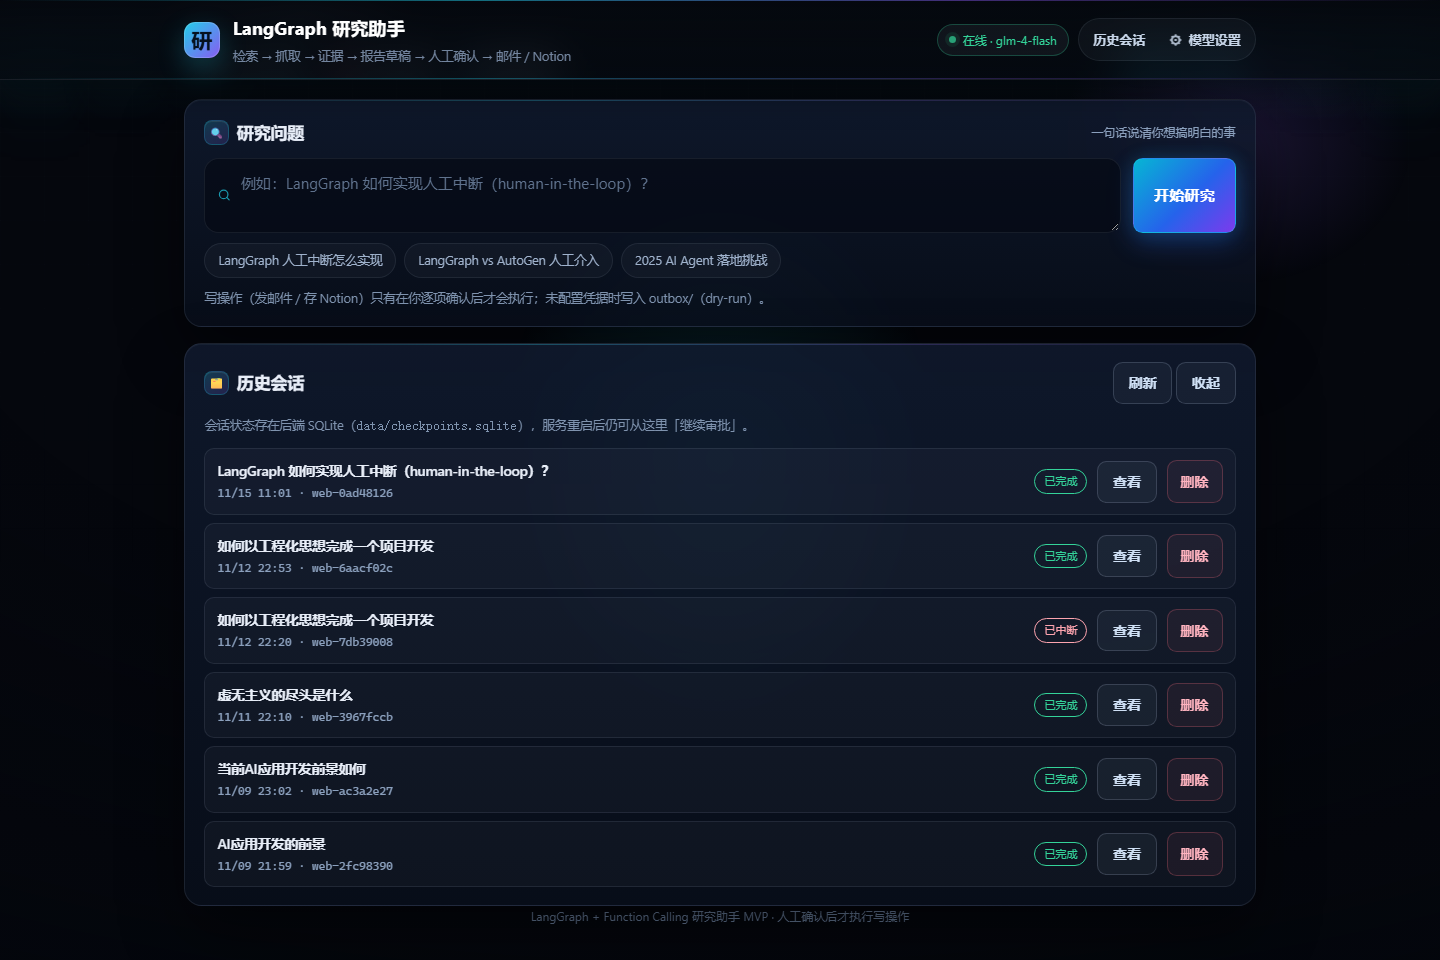
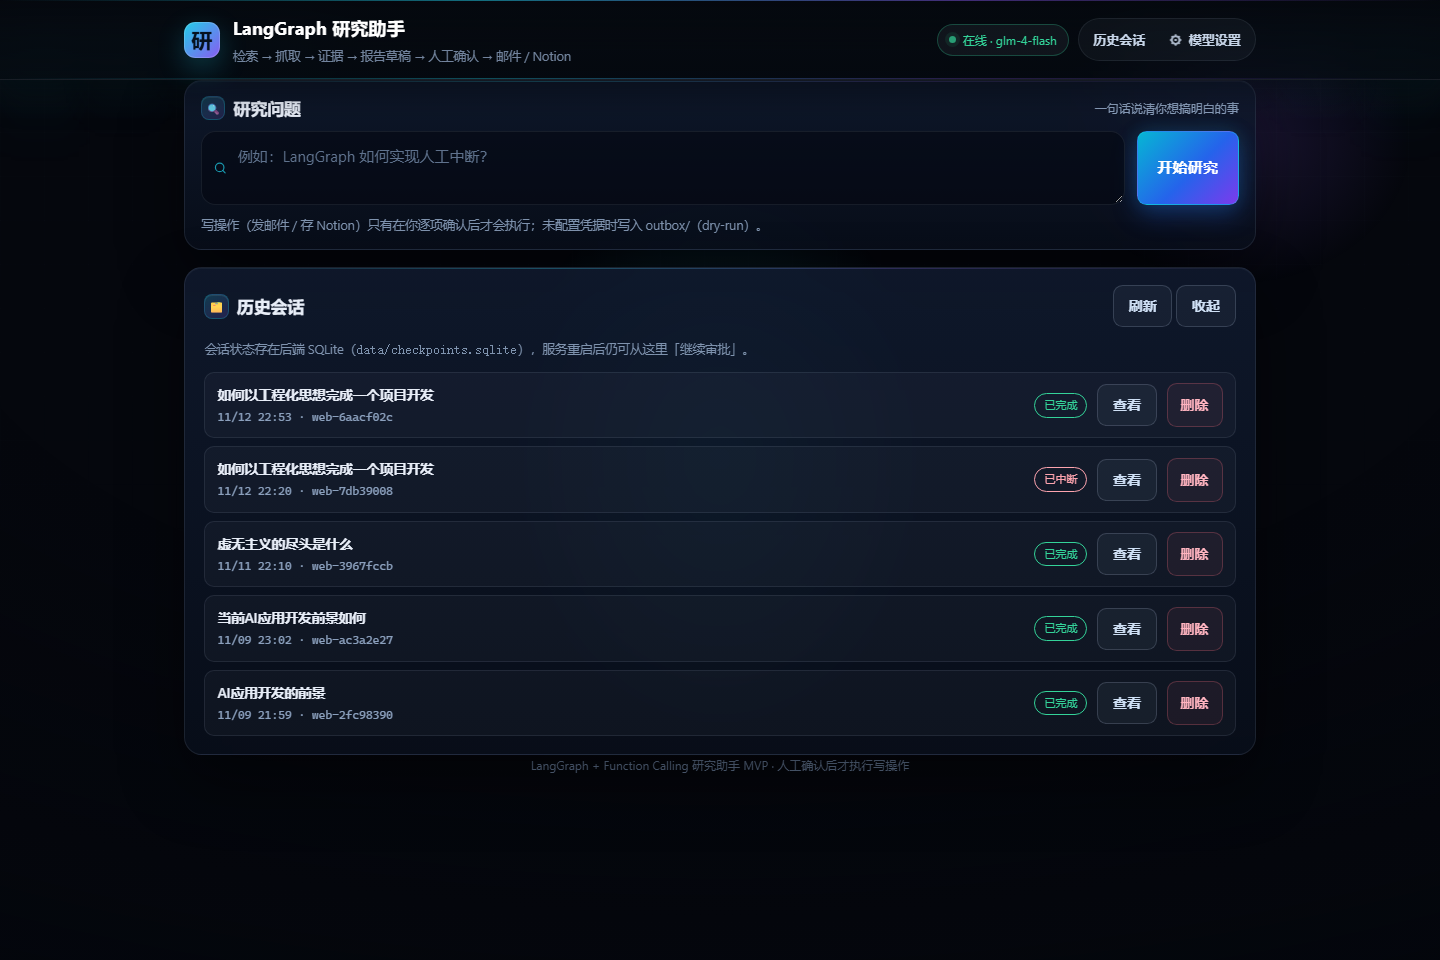
feat(ui): P3 搜索式首页 + 工作区双形态
- 首页（landing）：hero 居中，玻璃搜索台（全圆角、内联放大镜、按钮内嵌右侧、blur 24u）+ 示例胶囊，
  下面 2x2 能力胶囊卡（多轮检索 / 证据与引用 / 三道人工闸门 / 成本与 Trace）
- 工作区（workspace）：跑起来后隐藏 hero 与能力卡，输入台收成一条、示例胶囊隐藏，
  下面是原有的流水线卡片；「开始新的研究」回到首页
- 切换点：startResearch / startDemoResearch / loadSession / openHistory 进工作区，resetAll 回首页
- 修布局：grid 容器里的 ask-card/features 在 auto 边距下会退化成内容宽度（604 vs 713），补 width:100%
- 输入框加 aria-label（首页隐藏可见标签后仍有可访问名），占位文案缩短避免在胶囊里折行
- README 补「首页 / 工作区」说明，刷新首页与历史会话截图

diff --git a/index.html b/index.html
@@ -957,6 +957,127 @@
     .card-ico { width: 28px; height: 28px; font-size: 13px; }
     .stage-percent { font-size: 28px; }
   }
+
+  /* ============================================================
+     P3 版式：搜索式首页（landing） / 工作区（workspace）双形态
+     首页：居中 hero + 大玻璃搜索台 + 2x2 能力卡
+     工作区：隐藏 hero 与能力卡，输入台收窄成一条，下面是流水线卡片
+     ============================================================ */
+  body.mode-workspace .landing-only { display: none; }
+
+  /* ---------- 首页 hero 居中 ---------- */
+  body:not(.mode-workspace) .hero {
+    text-align: center;
+    padding-top: calc(30 * var(--u));
+  }
+  body:not(.mode-workspace) .hero-copy { margin-left: auto; margin-right: auto; }
+  body:not(.mode-workspace) .hero-stats { justify-content: center; }
+  body:not(.mode-workspace) .hero-status { margin-left: 0; }
+  body:not(.mode-workspace) main { padding-top: calc(14 * var(--u)); }
+
+  /* ---------- 大玻璃搜索台 ---------- */
+  body:not(.mode-workspace) .ask-card {
+    width: 100%;
+    max-width: calc(880 * var(--u));
+    margin: calc(22 * var(--u)) auto 0;
+    padding: 0;
+    background: none;
+    border: 0;
+    box-shadow: none;
+    backdrop-filter: none;
+    -webkit-backdrop-filter: none;
+  }
+  body:not(.mode-workspace) .ask-card::before { display: none; }
+  body:not(.mode-workspace) .ask-card .card-head { display: none; }
+  body:not(.mode-workspace) .ask-card .ask-field textarea { min-height: calc(88 * var(--u)); }
+  body:not(.mode-workspace) .ask-row { position: relative; }
+  body:not(.mode-workspace) .ask-field textarea {
+    min-height: calc(88 * var(--u));
+    padding: calc(11 * var(--u)) calc(158 * var(--u)) calc(11 * var(--u)) calc(48 * var(--u));
+    border-radius: 999px;
+    font-size: 15.5px;
+    background: rgba(148, 163, 184, .07);
+    border: 1px solid rgba(255, 255, 255, .13);
+    box-shadow: 0 20px 54px rgba(0, 0, 0, .42), inset 0 1px 0 rgba(255, 255, 255, .05);
+    backdrop-filter: blur(24px);
+    -webkit-backdrop-filter: blur(24px);
+  }
+  body:not(.mode-workspace) .ask-field textarea:focus {
+    background: rgba(148, 163, 184, .10);
+    border-color: rgba(34, 211, 238, .55);
+    box-shadow: 0 0 0 4px rgba(34, 211, 238, .12), 0 20px 54px rgba(0, 0, 0, .42);
+  }
+  body:not(.mode-workspace) .ask-card .ask-icon { left: calc(19 * var(--u)); }
+  body:not(.mode-workspace) .ask-card .start-btn {
+    position: absolute; right: calc(9 * var(--u)); top: 50%;
+    transform: translateY(-50%);
+    padding: calc(13 * var(--u)) calc(24 * var(--u));
+    border-radius: 999px;
+    font-size: 14.5px;
+  }
+  body:not(.mode-workspace) .ask-card .start-btn:hover:not(:disabled) { transform: translateY(calc(-50% - 1px)); }
+  body:not(.mode-workspace) .examples { justify-content: center; margin-top: calc(15 * var(--u)); }
+  body:not(.mode-workspace) .ask-card .hint { text-align: center; }
+
+  /* ---------- 2x2 能力胶囊卡 ---------- */
+  .features {
+    width: 100%;
+    display: grid; grid-template-columns: repeat(2, minmax(0, 1fr));
+    gap: calc(16 * var(--u));
+    max-width: calc(880 * var(--u));
+    margin: calc(24 * var(--u)) auto 0;
+  }
+  .feature {
+    display: flex; align-items: center; gap: calc(16 * var(--u));
+    padding: calc(17 * var(--u)) calc(24 * var(--u));
+    border-radius: 999px;
+    background: linear-gradient(150deg, rgba(17, 27, 48, .84), rgba(9, 15, 28, .76));
+    border: 1px solid var(--line);
+    box-shadow: 0 18px 44px rgba(0, 0, 0, .34), inset 0 1px 0 rgba(255, 255, 255, .03);
+    transition: border-color .2s ease, transform .2s ease, box-shadow .2s ease;
+  }
+  .feature:hover {
+    border-color: rgba(34, 211, 238, .34);
+    transform: translateY(-2px);
+    box-shadow: 0 24px 54px rgba(0, 0, 0, .44), inset 0 1px 0 rgba(255, 255, 255, .05);
+  }
+  .feature-ico {
+    flex: none; display: grid; place-items: center;
+    width: calc(54 * var(--u)); height: calc(54 * var(--u));
+    border-radius: 50%;
+    font-size: calc(23 * var(--u)); line-height: 1;
+    background: radial-gradient(circle at 32% 26%, rgba(34, 211, 238, .26), rgba(139, 92, 246, .16));
+    border: 1px solid rgba(34, 211, 238, .22);
+    box-shadow: inset 0 1px 0 rgba(255, 255, 255, .08);
+  }
+  .feature h3 { margin: 0 0 3px; font-size: 15.5px; font-weight: 700; color: var(--ink); letter-spacing: -.01em; }
+  .feature p { margin: 0; font-size: 12.8px; line-height: 1.52; color: var(--muted); }
+
+  /* ---------- 工作区：输入台收成一条 ---------- */
+  body.mode-workspace .ask-card { padding: calc(16 * var(--u)) calc(20 * var(--u)); }
+  body.mode-workspace .ask-card .card-head { margin-bottom: calc(10 * var(--u)); }
+  body.mode-workspace .examples { display: none; }
+  body.mode-workspace .ask-field textarea { min-height: calc(62 * var(--u)); }
+  body.mode-workspace .hero { display: none; }
+
+  /* ---------- 小屏 ---------- */
+  @media (max-width: 900px) {
+    .features { grid-template-columns: 1fr; gap: 12px; }
+    .feature { border-radius: 26px; padding: 14px 18px; }
+    body:not(.mode-workspace) .ask-card { border-radius: 24px; padding: 12px; }
+    body:not(.mode-workspace) .ask-field textarea {
+      min-height: 82px; border-radius: 22px;
+      padding: 12px 16px 12px 42px;
+    }
+    body:not(.mode-workspace) .ask-card .start-btn {
+      position: static; transform: none; width: 100%;
+      margin-top: 10px; padding: 12px 18px; border-radius: 14px;
+    }
+    body:not(.mode-workspace) .ask-card .start-btn:hover:not(:disabled) { transform: translateY(-1px); }
+    body:not(.mode-workspace) .ask-card .ask-icon { left: 15px; top: 30px; transform: none; }
+    body:not(.mode-workspace) .examples { justify-content: flex-start; }
+    body:not(.mode-workspace) .ask-card .hint { text-align: left; }
+  }
 </style>
 </head>
 <body>
@@ -1003,7 +1124,7 @@
 </header>
 
 <main class="wrap">
-  <section class="hero">
+  <section class="hero landing-only">
     <p class="eyebrow">RESEARCH AGENT · HUMAN IN THE LOOP</p>
     <h2>把一个问题，变成一份<br><span>带来源、可复核</span>的研究报告</h2>
     <p class="hero-copy">先拆解、再检索、再抓取；证据不足会补检，结论必须能回到原文。邮件与 Notion 只在你逐项确认后写入。</p>
@@ -1029,7 +1150,7 @@
     <div class="ask-row">
       <div class="ask-field">
         <span class="ask-icon" aria-hidden="true"><svg viewBox="0 0 24 24" fill="none" stroke="currentColor" stroke-width="2" stroke-linecap="round"><circle cx="11" cy="11" r="7"></circle><path d="m20 20-3.6-3.6"></path></svg></span>
-        <textarea id="question" rows="2" placeholder="例如：LangGraph 如何实现人工中断（human-in-the-loop）？"></textarea>
+        <textarea id="question" rows="2" aria-label="研究问题" placeholder="例如：LangGraph 如何实现人工中断？"></textarea>
       </div>
       <button id="start-btn" class="btn primary start-btn">开始研究</button>
     </div>
@@ -1039,6 +1160,37 @@
       <button type="button" class="example" data-q="2025 年 AI Agent 在企业落地的主要挑战是什么？">2025 AI Agent 落地挑战</button>
     </div>
     <p class="hint">写操作（发邮件 / 存 Notion）只有在你逐项确认后才会执行；未配置凭据时写入 outbox/（dry-run）。</p>
+  </section>
+
+  <section class="features landing-only" aria-label="能力概览">
+    <article class="feature">
+      <span class="feature-ico" aria-hidden="true">🔍</span>
+      <div>
+        <h3>多轮检索</h3>
+        <p>子问题拆解，证据不足自动补检</p>
+      </div>
+    </article>
+    <article class="feature">
+      <span class="feature-ico" aria-hidden="true">📎</span>
+      <div>
+        <h3>证据与引用</h3>
+        <p>结论可回溯原文，[S#] 角标硬校验</p>
+      </div>
+    </article>
+    <article class="feature">
+      <span class="feature-ico" aria-hidden="true">🧑⚖</span>
+      <div>
+        <h3>三道人工闸门</h3>
+        <p>草稿 / 邮件 / Notion 逐项确认</p>
+      </div>
+    </article>
+    <article class="feature">
+      <span class="feature-ico" aria-hidden="true">📈</span>
+      <div>
+        <h3>成本与 Trace</h3>
+        <p>节点耗时、token、成本可查</p>
+      </div>
+    </article>
   </section>
 
   <section class="card" id="history-card" hidden>
@@ -1759,6 +1911,7 @@
     list.innerHTML = '<p class="muted">正在加载会话 ' + escapeHtml(sessionThreadId) + "…</p>";
     try {
       const data = await fetchJson("/api/sessions/" + encodeURIComponent(sessionThreadId));
+      setLayout("workspace");
       threadId = data.thread_id || sessionThreadId;
       $("progress-card").hidden = false;
       render(data);
@@ -1849,6 +2002,7 @@
   }
 
   function openHistory() {
+    setLayout("workspace");
     $("history-card").hidden = false;
     $("history-card").scrollIntoView({ behavior: "smooth", block: "start" });
     loadHistory();
@@ -2049,7 +2203,13 @@
     $("final-card").scrollIntoView({ behavior: "smooth", block: "start" });
   }
 
+  // 首页（搜索式）与工作区（流水线）两种形态
+  function setLayout(mode) {
+    document.body.classList.toggle("mode-workspace", mode === "workspace");
+  }
+
   function resetAll() {
+    setLayout("landing");
     threadId = null;
     currentInterrupt = null;
     currentFinal = null;
@@ -2074,6 +2234,7 @@
     clearError();
     const question = $("question").value.trim();
     if (!question) { showError("请先输入研究问题。"); return; }
+    setLayout("workspace");
     if (demoMode) { startDemoResearch(question); return; }
     sessionQuestion = question;
     threadId = null;
@@ -2201,6 +2362,7 @@
   }
 
   function startDemoResearch(question) {
+    setLayout("workspace");
     demoQuestion = question;
     demoStage = "draft";
     demoRevision = 0;

diff --git a/README.md b/README.md
@@ -102,7 +102,11 @@ python check_llm.py               # 真实调用一次，确认 Key/Base URL/模
 
 ## 界面与用法
 
-![网页版主界面](原型图/web-ui.png)
+![首页：搜索式入口](原型图/web-ui.png)
+
+页面分两种形态：**首页**是搜索式入口（居中大标题 + 玻璃搜索台 + 四张能力卡）；
+点「开始研究」或打开历史会话后自动切到**工作区**——首页内容收起，只留一条问题输入 + 流水线卡片，
+「开始新的研究」会回到首页。
 
 网页端一次研究的流程：
 
